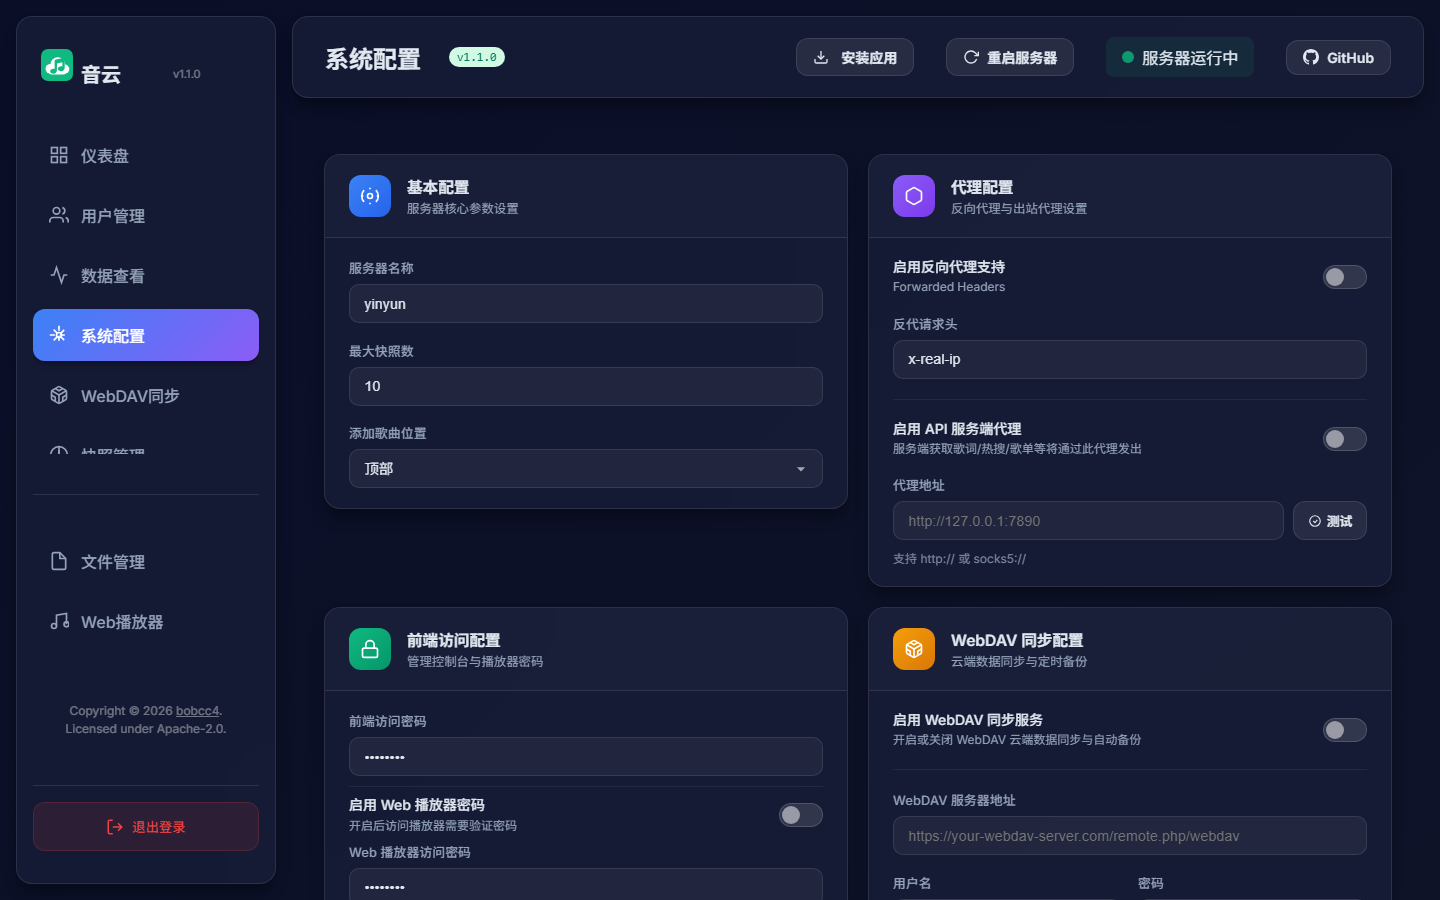
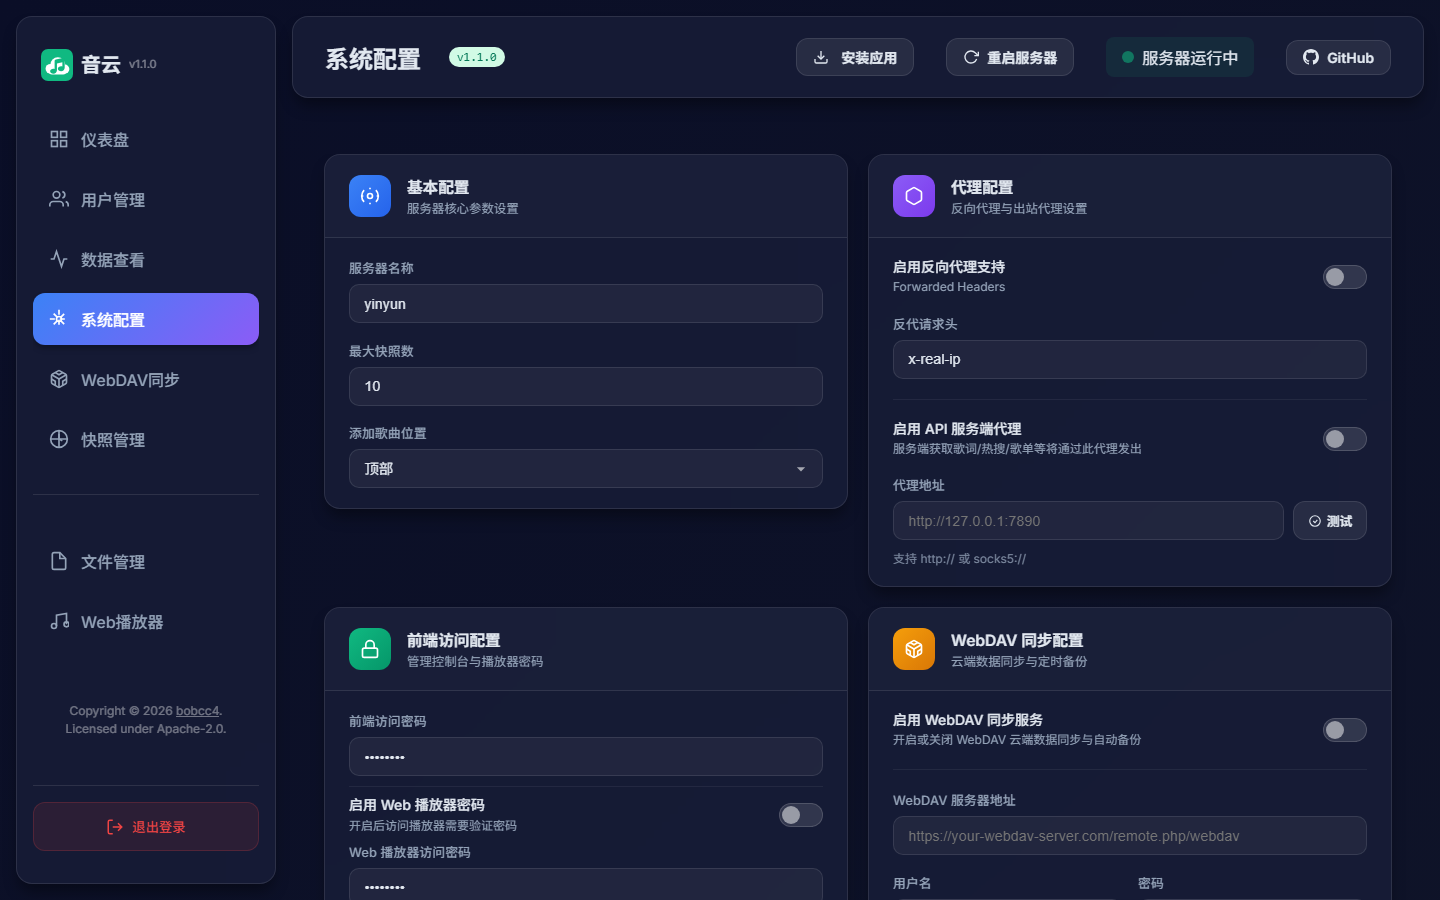
fix: align admin branding and rename release assets

diff --git a/public/index.html b/public/index.html
@@ -79,14 +79,9 @@
         <!-- 侧边栏 -->
         <aside class="sidebar glass">
             <div class="sidebar-header">
-                <div style="display: flex; align-items: center;">
-                    <img src="/icon.svg" class="logo-icon" alt="Logo"
-                        style="width: 32px; height: 32px; margin-right: 8px;">
-                    <h2>音云</h2>
-                </div>
-                <div id="sidebar-version"
-                    style="font-size: 0.7rem; color: rgba(255, 255, 255, 0.4); margin-left: 40px; margin-top: 2px;">
-                    v1.1.0</div>
+                <img src="/icon.svg" class="logo-icon" alt="音云">
+                <h2>音云</h2>
+                <span id="sidebar-version">v1.1.0</span>
             </div>
 
             <nav class="sidebar-nav">

diff --git a/public/style.css b/public/style.css
@@ -187,19 +187,32 @@ body {
 .sidebar-header {
     display: flex;
     align-items: center;
-    gap: 0.75rem;
+    gap: 0.5rem;
     padding: 0 0.5rem;
+    min-height: 32px;
 }
 
 .sidebar-header .logo-icon {
     width: 32px;
     height: 32px;
+    display: block;
+    flex: 0 0 32px;
     color: var(--accent-primary);
+    margin: 0;
 }
 
 .sidebar-header h2 {
     font-size: 1.25rem;
     font-weight: 700;
+    line-height: 1;
+    margin: 0;
+}
+
+#sidebar-version {
+    color: rgba(255, 255, 255, 0.45);
+    font-size: 0.7rem;
+    line-height: 1;
+    white-space: nowrap;
 }
 
 .sidebar-nav {
